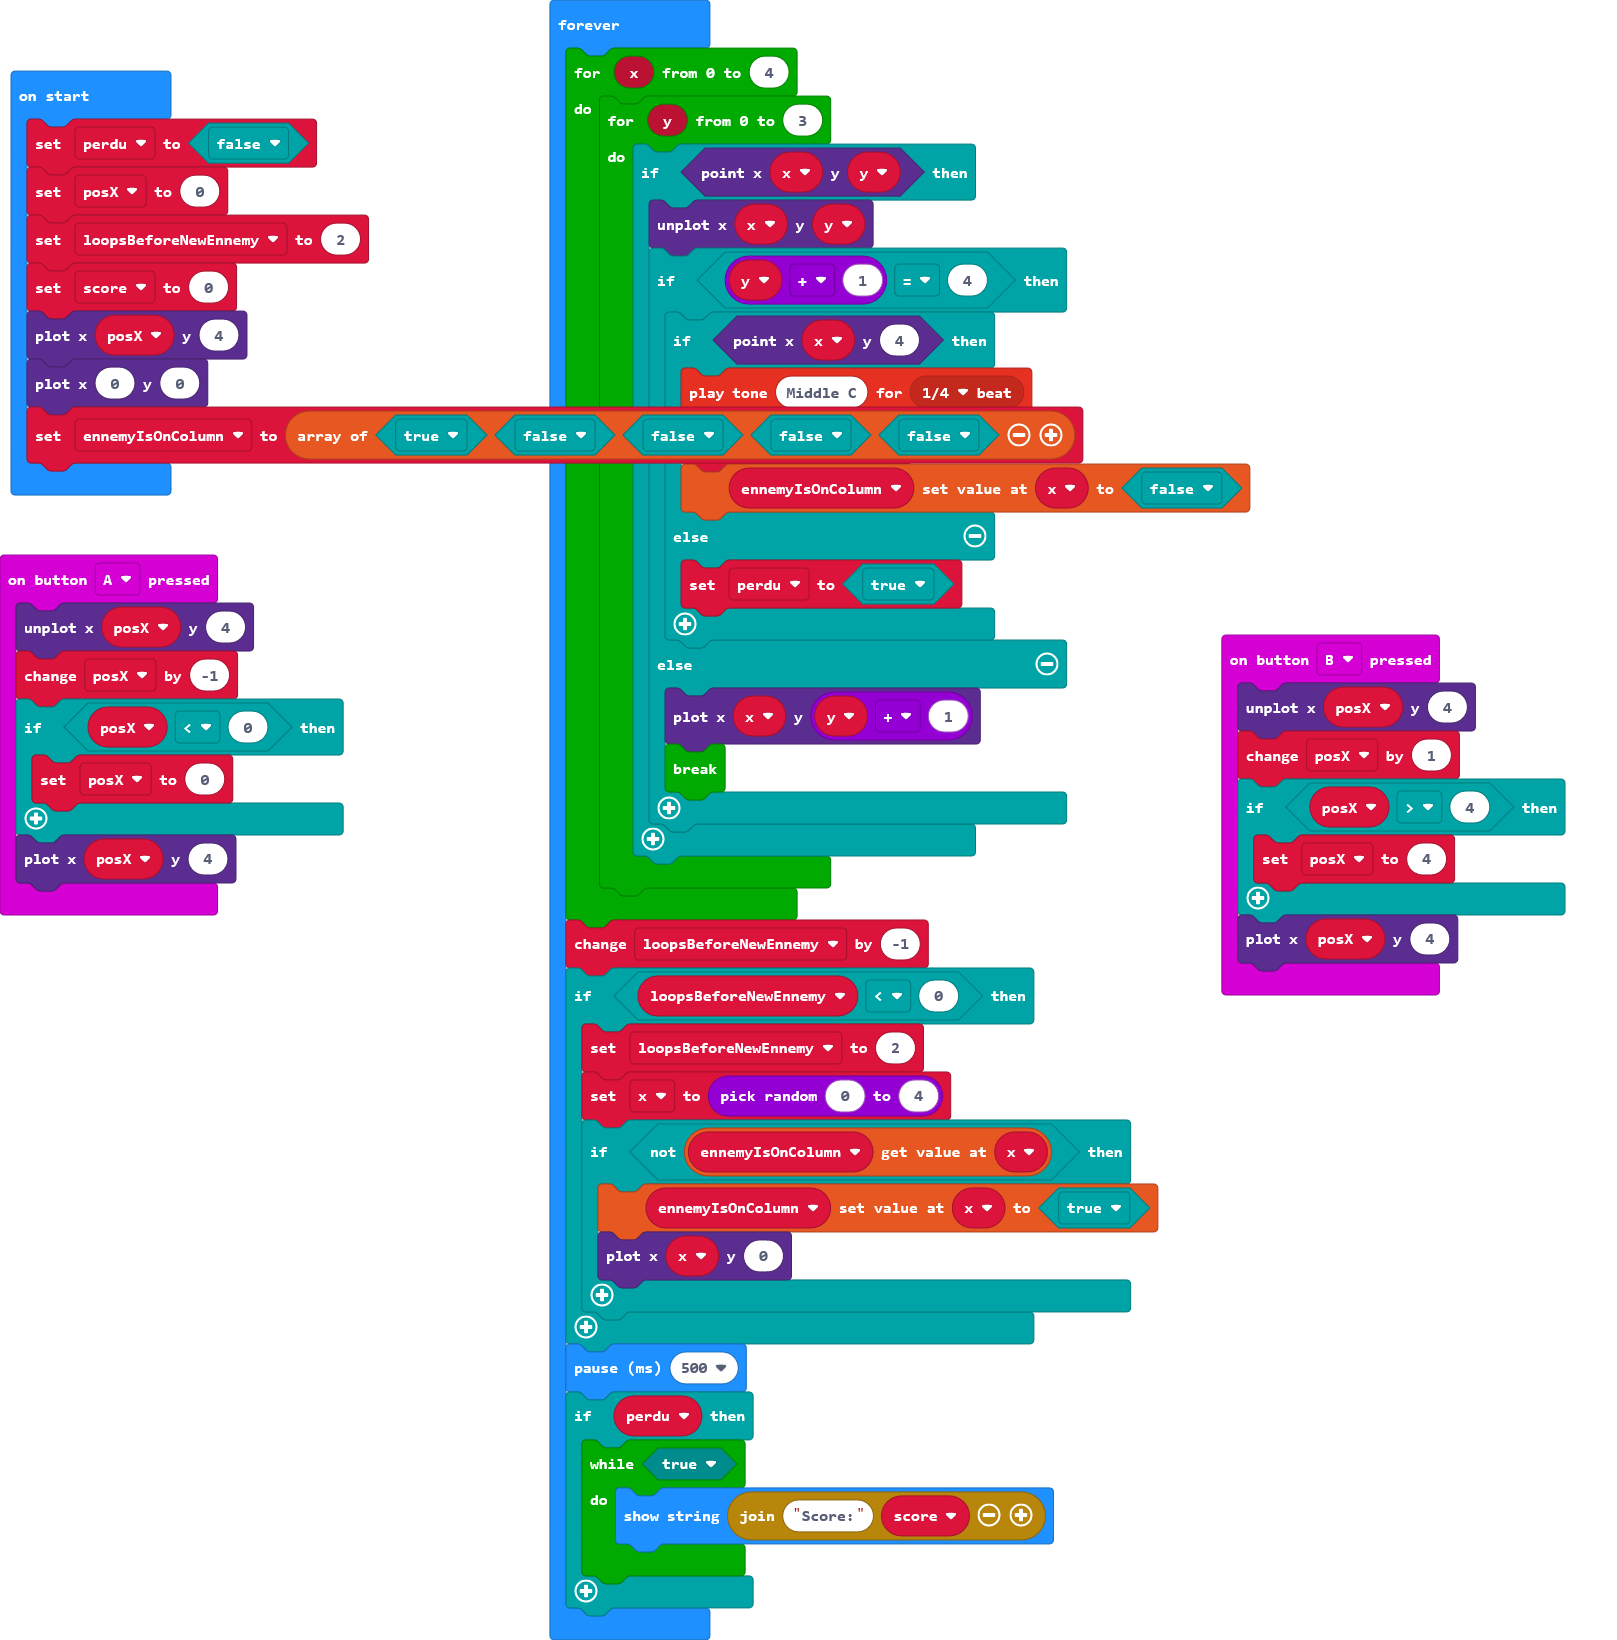
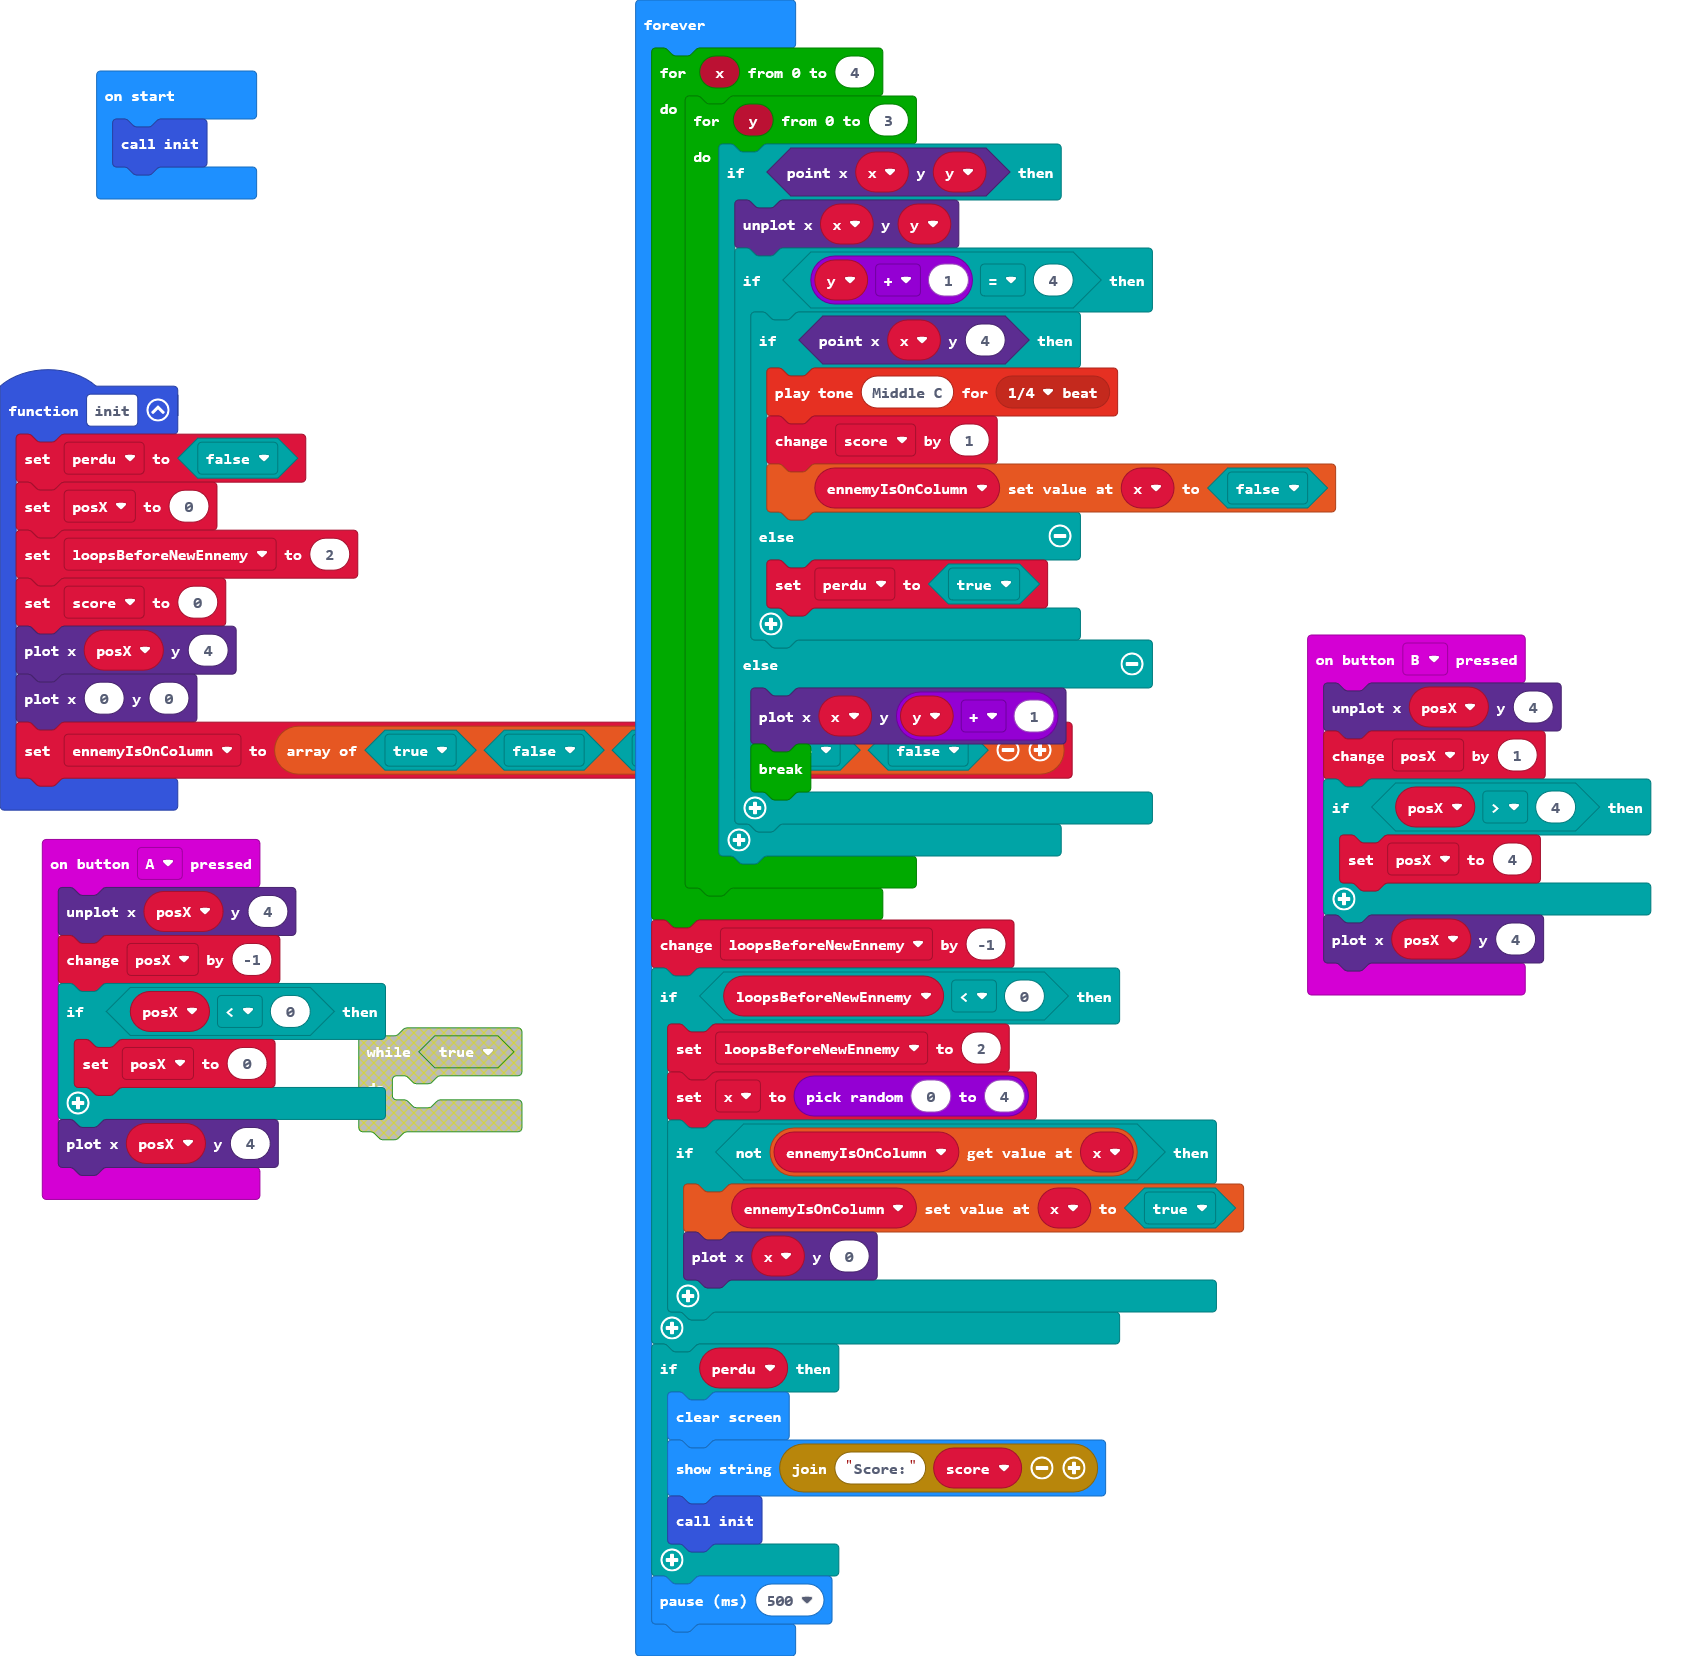
Update main.blocks, main.ts

diff --git a/main.ts b/main.ts
@@ -6,6 +6,15 @@ input.onButtonPressed(Button.A, function () {
     }
     led.plot(posX, 4)
 })
+function init () {
+    perdu = false
+    posX = 0
+    loopsBeforeNewEnnemy = 2
+    score = 0
+    led.plot(posX, 4)
+    led.plot(0, 0)
+    ennemyIsOnColumn = [true, false, false, false, false]
+}
 input.onButtonPressed(Button.B, function () {
     led.unplot(posX, 4)
     posX += 1
@@ -15,14 +24,12 @@ input.onButtonPressed(Button.B, function () {
     led.plot(posX, 4)
 })
 let x = 0
-let posX = 0
-let perdu = false
-posX = 0
-let loopsBeforeNewEnnemy = 2
+let ennemyIsOnColumn: boolean[] = []
 let score = 0
-led.plot(posX, 4)
-led.plot(0, 0)
-let ennemyIsOnColumn = [true, false, false, false, false]
+let loopsBeforeNewEnnemy = 0
+let perdu = false
+let posX = 0
+init()
 basic.forever(function () {
     for (let x = 0; x <= 4; x++) {
         for (let y = 0; y <= 3; y++) {
@@ -52,10 +59,10 @@ basic.forever(function () {
             led.plot(x, 0)
         }
     }
-    basic.pause(500)
     if (perdu) {
-        while (true) {
-            basic.showString("Score:" + score)
-        }
+        basic.clearScreen()
+        basic.showString("Score:" + score)
+        init()
     }
+    basic.pause(500)
 })
